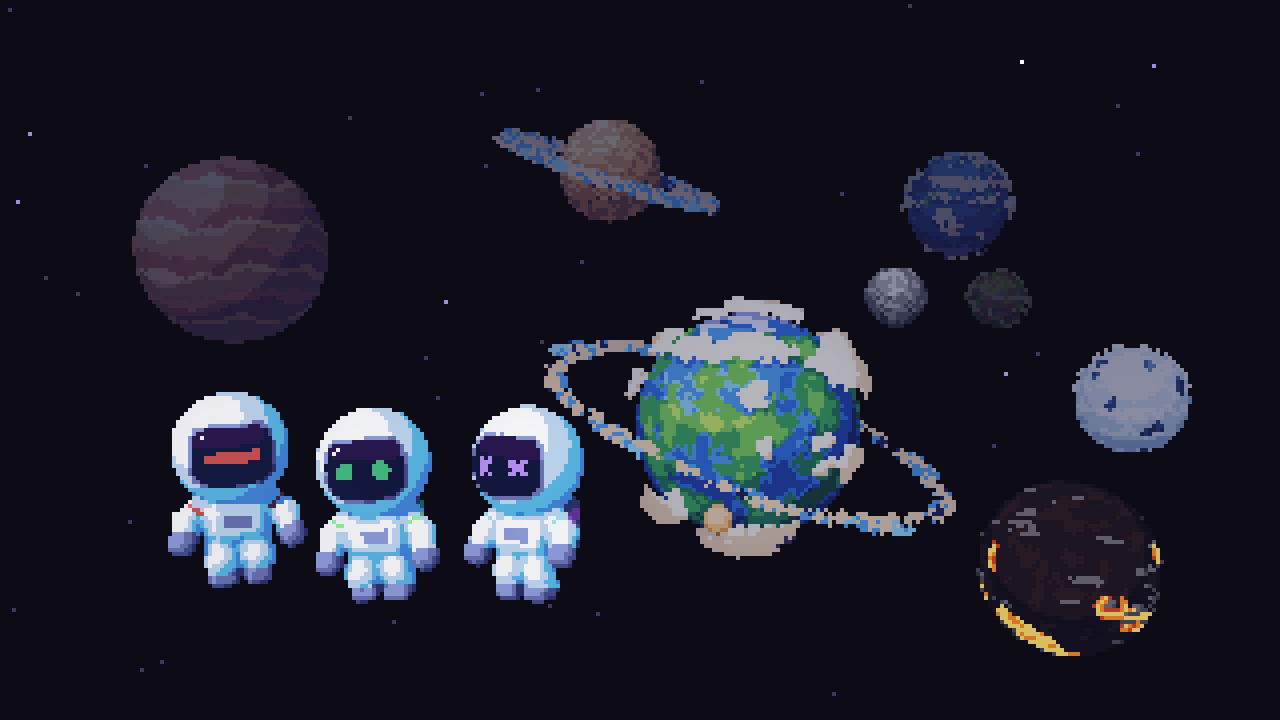
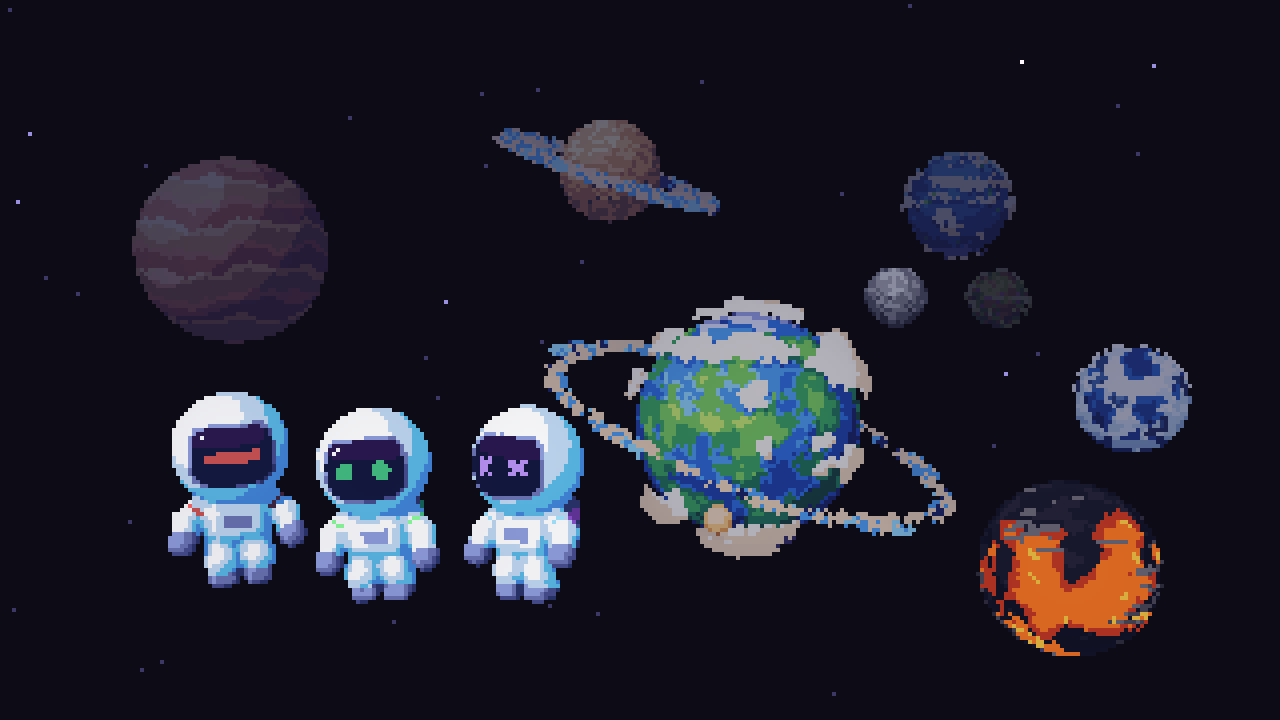
feat(mockup): open lava pools and ice water; orange lava, bluer crust
Lava worlds get large regions of pure molten lava and ice worlds get open
dark-blue water, so each planet mixes solid ground, crack networks and open
plates. Open plates are whole Voronoi cells of the crack network (shores are
the same straight, jagged edges), clustered by a low-frequency field into
lakes and seas. The open share of the sphere is a per-seed quantile (lava 30%,
ice 27%), computed on the CPU through new ports (voronoiCells, poolField) with
a GPU parity test. Cracks never run along a shore, so there are no clipped
1 px slivers.

Lava glow is more orange (#c9361a #ff761a #ffc93c): yellow only on the
hottest pool cores and down the widest fissures (47% -> 10% of glow pixels).
The crust shifts to cool blue-grey shadows. Ash rises off fissures and pool
shores; artefact glyphs stay legible on lava.

A regions debug view (viewer.set({ regions: true })) classifies ground,
crack and open pixels; the line-width probe uses it, and the test now also
guards the mix. Re-renders the variety sheet, system shot, depth GIFs,
artefacts sheet and lava-ice-before-after (e917540 top, new bottom).

Changed region(s): [[0.75, 0.7028, 0.9062, 0.9167], [0.8438, 0.4889, 0.9375, 0.6417]]

diff --git a/mockups/asset-viewer/viewer.js b/mockups/asset-viewer/viewer.js
@@ -9,7 +9,7 @@ import { LOSPEC, LOSPEC_ORDER, SPARES } from './palettes.js';
 import { mapPalette, mapColors, snapToPool } from './palette-map.js';
 import { V2_PLANET_RAMPS, RESEARCH_RAMPS, PLANET_DEPTH, ACCENTS } from './planet-ramps.js';
 import { tangentFrame } from './cloud-frame.js';
-import { voronoiEdge, crackMask } from './snoise.js';
+import { voronoiCells, poolField, crackMask } from './snoise.js';
 import { ARTEFACTS_GLSL, MAX_ART, ART_TICKS, artefactSectors, artefactCount } from './artefacts.js';
 
 THREE.ColorManagement.enabled = false; // palette hexes go to the screen untouched
@@ -329,9 +329,24 @@ const CLOUD_FRAG = /* glsl */ `
   }
 `;
 
-// Cell hash, Voronoi edge distance and the crack mask, shared by the planet shader and the CPU
-// port (snoise.js voronoiEdge / crackMask) that places lava ash on the fissures.
-const CRACKS = { lava: { freq: 3.2, cut: 0.25 }, ice: { freq: 3.8, cut: 0.32 } };
+// Cell hash, Voronoi cells, the crack mask and the pool field, shared by the planet shader and
+// the CPU port (snoise.js voronoiCells / crackMask / poolField) that sets each planet's pool cut
+// and places lava ash on the fissures and pool shores.
+// pool: which whole plates are open (lava pools, ice water). scale = the cluster field's
+// frequency in cells (lower = bigger lakes and seas); share = the open share of the whole
+// sphere, held per seed by a quantile (poolCut), like cloud cover.
+const CRACKS = { lava: { freq: 3.2, cut: 0.25, pool: { scale: 0.3, share: 0.3 } }, ice: { freq: 3.8, cut: 0.23, pool: { scale: 0.35, share: 0.27 } } };
+// The field cut that opens `share` of the sphere's area (Fibonacci samples through the CPU port).
+// off is the offset the shader passes for that biome's plates.
+function poolCut({ freq, pool }, off) {
+  const N = 3000, vals = [];
+  for (let i = 0; i < N; i++) {
+    const y = 1 - ((i + 0.5) / N) * 2, r = Math.sqrt(1 - y * y), lon = i * 2.39996;
+    const { own } = voronoiCells(Math.cos(lon) * r * freq + off.x, y * freq + off.y, Math.sin(lon) * r * freq + off.z);
+    vals.push(poolField(...own, off.x, off.y, off.z, pool.scale));
+  }
+  return vals.sort((a, b) => b - a)[Math.round(pool.share * N)];
+}
 const WORLEY_GLSL = /* glsl */ `
   vec3 hash33(vec3 p) { p = fract(p * vec3(0.1031, 0.1030, 0.0973)); p += dot(p, p.yxz + 33.33); return fract((p.xxy + p.yxx) * p.zyx); }
   // Integer cell hash (pcg3d), bit-exact on the CPU, unlike the float hash33 (whose large
@@ -346,8 +361,9 @@ const WORLEY_GLSL = /* glsl */ `
   vec3 cellHash(vec3 c) { return vec3(pcg3d(uvec3(ivec3(c) + 4096))) * (1.0 / 4294967296.0); }
   // Distance to the nearest Voronoi cell edge (the bisector plane between the nearest feature
   // and each neighbour; Quilez's two-pass method). Exact, so cracks have even width and
-  // sharp corners instead of blobs at the junctions.
-  float voronoiEdge(vec3 p) {
+  // sharp corners instead of blobs at the junctions. own = the nearest cell, across = the
+  // neighbour on the other side of that edge (integer cell coords).
+  float voronoiCells(vec3 p, out vec3 own, out vec3 across) {
     vec3 i = floor(p), f = fract(p);
     vec3 r1 = vec3(0.0), c1 = vec3(0.0);
     float d1 = 9.0;
@@ -358,17 +374,30 @@ const WORLEY_GLSL = /* glsl */ `
       if (dd < d1) { d1 = dd; r1 = r; c1 = g; }
     }
     float e = 9.0;
+    vec3 ga = c1;
     for (int z = -2; z <= 2; z++) for (int y = -2; y <= 2; y++) for (int x = -2; x <= 2; x++) {
       vec3 g = c1 + vec3(x, y, z);
       vec3 r = g + cellHash(i + g) - f;
       vec3 dr = r - r1;
-      if (dot(dr, dr) > 1e-5) e = min(e, dot(0.5 * (r1 + r), normalize(dr)));
+      if (dot(dr, dr) > 1e-5) {
+        float d = dot(0.5 * (r1 + r), normalize(dr));
+        if (d < e) { e = d; ga = g; }
+      }
     }
+    own = i + c1;
+    across = i + ga;
     return e;
   }
+  float voronoiEdge(vec3 p) { vec3 own, across; return voronoiCells(p, own, across); }
+  // Open plates (lava pools, ice water): whole Voronoi cells of the crack network where the crust
+  // or ice sheet has broken away. A low-frequency field over the cells clusters them into lakes
+  // and seas with straight, jagged shores; a per-cell jitter adds lone pools. cell = integer coords.
+  // A plate is open where poolField > the planet's cut (uPoolCut, a quantile set on the CPU).
+  float poolField(vec3 cell, vec3 off, float scale) { return snoise((cell + cellHash(cell)) * scale + off.zxy) + (cellHash(cell + 31.0).x - 0.5) * 0.5; } // at the feature point: off-lattice, so CPU and GPU never tie in snoise
   float crackMask(vec3 p, float freq, vec3 off) { return snoise(p * freq * 0.35 + off.yzx) * 0.5 + 0.5; }
   const float LAVA_CRACK_FREQ = ${CRACKS.lava.freq.toFixed(2)}, LAVA_CRACK_CUT = ${CRACKS.lava.cut.toFixed(2)};
   const float ICE_CRACK_FREQ = ${CRACKS.ice.freq.toFixed(2)}, ICE_CRACK_CUT = ${CRACKS.ice.cut.toFixed(2)};
+  const float LAVA_POOL_SCALE = ${CRACKS.lava.pool.scale.toFixed(3)}, ICE_POOL_SCALE = ${CRACKS.ice.pool.scale.toFixed(3)};
 `;
 
 // Biome surfaces (art-direction: biome = module health). All flat light bands from
@@ -388,6 +417,8 @@ const PLANET_FRAG = /* glsl */ `
   uniform mat4 modelMatrix;      // three sets these per program; the fragment stage reads them
   uniform mat4 projectionMatrix; // for the planet's screen size (cracks, artefacts)
   uniform vec2 uViewSize;        // drawing-buffer size in px
+  uniform float uPoolCut;        // open plates: poolField above this (lava pools, ice water)
+  uniform int uRegions;          // 1 = debug view: ground blue, crack red, open plates green (measurement)
   in vec3 vNormalW;
   in vec3 vLocal;
   in vec3 vPosW;
@@ -421,17 +452,17 @@ const PLANET_FRAG = /* glsl */ `
   // cracks branch and taper; below ~1 px a crack simply ends, so tips never break into dots.
   // Width is in SCREEN px (halfPx at the widest), so lines stay bold at any size; small
   // planets raise the mask cut instead, so they show fewer cracks rather than solid fissure.
-  // Returns half-width minus the pixel's distance to the edge, in px (> 0 inside), and in
-  // core how central the pixel is (0 centre .. 1 edge).
-  float crack(vec3 p, float freq, vec3 off, float cut, float halfPx, out float core) {
+  // plates() returns the px distance to the nearest cell edge, and the plates on either side of
+  // it; crackWidth() the crack's half-width there in px (0 where no crack shows). Inside a crack
+  // when dpx < w; core = dpx / w is how central the pixel is (0 centre .. 1 edge).
+  float plates(vec3 p, float freq, vec3 off, out vec3 own, out vec3 across) { return voronoiCells(p * freq + off, own, across) / (freq * gPx); }
+  float crackWidth(vec3 p, float freq, vec3 off, float cut, float halfPx) {
     float small = 1.0 - clamp((gRadiusPx - 18.0) / 50.0, 0.0, 1.0); // 1 for tiny planets, 0 from ~70 px radius
     float w = halfPx * smoothstep(cut + small * 0.35, cut + small * 0.35 + 0.25, crackMask(p, freq, off));
-    core = 1.0;
-    if (w < 0.55) return -1.0;
-    float dpx = voronoiEdge(p * freq + off) / (freq * gPx); // px to the cell edge
-    core = dpx / w;
-    return w - dpx;
+    return w < 0.55 ? 0.0 : w; // below ~1 px a crack ends
   }
+  // Region of the last surface() sample, for the regions debug view: 0 ground, 1 crack, 2 open (pool / water).
+  int gRegion = 0;
 
   // Craters: sparse cells get a dark floor and a bright rim.
   vec3 craters(vec3 p, vec3 c, int b, float scale, float density) {
@@ -447,6 +478,7 @@ const PLANET_FRAG = /* glsl */ `
   // The surface colour is a function so artefacts can resample it (cell centres, moshed terrain, flipped bands).
   vec3 surface(vec3 p, int b) {
     vec3 c;
+    gRegion = 0;
     if (uBiome == 0 || uBiome == 1 || uBiome == 7) {
       // lush / ocean / toxic: sea + land
       float h = fbm(p * 1.6 + uSeedOff) + (fbm(p * 4.1 + uSeedOff.zxy) - 0.5) * 0.22;
@@ -464,8 +496,18 @@ const PLANET_FRAG = /* glsl */ `
       float h = fbm(p * 2.3 + uSeedOff);
       float strata = sin((p.y * 5.0 + h * 2.4) * 3.14159);
       c = uA[min(b + 1 + (strata > 0.55 ? 1 : 0), 4)];
-      float core;
-      if (crack(p, ICE_CRACK_FREQ, uSeedOff.yzx, ICE_CRACK_CUT, 1.2, core) > 0.0) c = core < 0.5 ? uB[max(b - 1, 0)] : uB[min(b, 4)];
+      vec3 own, across;
+      float dpx = plates(p, ICE_CRACK_FREQ, uSeedOff.yzx, own, across);
+      if (poolField(own, uSeedOff.yzx, ICE_POOL_SCALE) > uPoolCut) {
+        // open dark-blue water between the sheets, with a paler submerged-ice fringe at the shore
+        gRegion = 2;
+        bool shore = poolField(across, uSeedOff.yzx, ICE_POOL_SCALE) <= uPoolCut && dpx < 1.5;
+        c = shore ? uC[min(b, 2)] : uC[max(min(b, 2) - 1, 0)]; // two dark steps; the lit fringe one up
+      } else {
+        float w = crackWidth(p, ICE_CRACK_FREQ, uSeedOff.yzx, ICE_CRACK_CUT, 1.2);
+        // no crack along a shore: the water's fringe marks that edge (a clipped half-crack is a 1 px sliver)
+        if (dpx < w && poolField(across, uSeedOff.yzx, ICE_POOL_SCALE) <= uPoolCut) { gRegion = 1; c = dpx < w * 0.5 ? uB[max(b - 1, 0)] : uB[min(b, 4)]; }
+      }
     } else if (uBiome == 3 || uBiome == 6) {
       // desert dunes / barren moon, both cratered
       float h = fbm(p * 2.0 + uSeedOff);
@@ -475,12 +517,24 @@ const PLANET_FRAG = /* glsl */ `
       c = craters(p, c, b, 2.4, uBiome == 6 ? 0.55 : 0.3);
       c = craters(p, c, b, 5.2, uBiome == 6 ? 0.45 : 0.2);
     } else if (uBiome == 4) {
-      // lava: dark crust, emissive fissures
+      // lava: dark crust, open molten pools and emissive fissures
       float h = fbm(p * 2.4 + uSeedOff);
       c = uA[min(b, 2) + (h > 0.58 ? 1 : 0)]; // crust stays in the darkest steps
-      // emissive jagged fissures: bright core, darker glowing edges
-      float core;
-      if (crack(p, LAVA_CRACK_FREQ, uSeedOff, LAVA_CRACK_CUT, 1.5, core) > 0.0) c = core < 0.4 ? uG[2] : core < 0.75 ? uG[1] : uG[0];
+      vec3 own, across;
+      float dpx = plates(p, LAVA_CRACK_FREQ, uSeedOff, own, across);
+      if (poolField(own, uSeedOff, LAVA_POOL_SCALE) > uPoolCut) {
+        // open molten pool where the crust broke away: orange, a cooler rim at the shore, and
+        // yellow only on the hottest cores, away from the shore
+        gRegion = 2;
+        bool shore = poolField(across, uSeedOff, LAVA_POOL_SCALE) <= uPoolCut;
+        c = shore && dpx < 1.5 ? uG[0] : uG[1];
+        if ((!shore || dpx > 4.0) && snoise(p * 3.5 + uSeedOff.yzx) > 0.6) c = uG[2];
+      } else {
+        // emissive jagged fissures: orange, darker glowing edges, yellow only down the core of the widest
+        float w = crackWidth(p, LAVA_CRACK_FREQ, uSeedOff, LAVA_CRACK_CUT, 1.5);
+        // no crack along a shore: the pool's rim marks that edge (a clipped half-crack is a 1 px sliver)
+        if (dpx < w && poolField(across, uSeedOff, LAVA_POOL_SCALE) <= uPoolCut) { gRegion = 1; c = dpx < w * 0.25 && w > 1.4 ? uG[2] : dpx < w * 0.7 ? uG[1] : uG[0]; }
+      }
     } else {
       // gas giant: turbulent alternating bands and a storm
       float t = fbm(p * vec3(1.4, 0.45, 1.4) + uSeedOff);
@@ -500,6 +554,7 @@ const PLANET_FRAG = /* glsl */ `
     setScreenScale(p);
     int b = band(normalize(vNormalW));
     gl_FragColor = vec4(artefacts(p, b, surface(p, b)), 1.0);
+    if (uRegions == 1) { gl_FragColor = vec4(gRegion == 1 ? 1.0 : 0.0, gRegion == 2 ? 1.0 : 0.0, gRegion == 0 ? 1.0 : 0.0, 1.0); return; } // debug: ground / crack / open
     bool glow = uBiome == 4 && (gl_FragColor.rgb == uG[0] || gl_FragColor.rgb == uG[1] || gl_FragColor.rgb == uG[2]);
     gl_FragColor.rgb = depthFade(gl_FragColor.rgb, vPosW, glow ? 0.5 : 1.0); // emissive glow fades at half strength
   }
@@ -664,7 +719,7 @@ function setDepthLevel(obj, level) {
 export const BIOMES = {
   lush: { id: 0, label: 'lush', ramps: ['ocean', 'land', 'cap', 'glow'], sea: [0.47, 0.55], weather: 'cloud', haze: null },
   ocean: { id: 1, label: 'ocean', ramps: ['water', 'land', 'cap', 'glow'], sea: [0.7, 0.73], weather: 'thin', haze: 'haze.ocean' },
-  ice: { id: 2, label: 'ice', ramps: ['ice', 'crevasse', 'cap', 'glow'], weather: null, haze: 'haze.ice' },
+  ice: { id: 2, label: 'ice', ramps: ['ice', 'crevasse', 'water', 'glow'], weather: null, haze: 'haze.ice' },
   desert: { id: 3, label: 'desert', ramps: ['sand', 'rock', 'cap', 'glow'], weather: null, haze: null },
   lava: { id: 4, label: 'lava', ramps: ['crust', 'crust', 'ash', 'glow'], weather: 'ash', haze: null },
   gas: { id: 5, label: 'gas giant (extra)', ramps: ['gasA', 'gasB', 'cap', 'glow'], weather: null, haze: null, extra: true },
@@ -748,7 +803,7 @@ function makePlanet() {
   group.userData.depthFamily = 'planet'; // fades through the planet set, not the crew's
   const surfaceMat = paletteMaterial(PLANET_FRAG, {}, {
     uBiome: { value: 0 }, uA: ramp5(), uB: ramp5(), uC: ramp5(), uG: { value: [0, 1, 2].map(() => new THREE.Color()) },
-    uSeedOff: { value: new THREE.Vector3() }, uSea: { value: 0.5 },
+    uSeedOff: { value: new THREE.Vector3() }, uSea: { value: 0.5 }, uPoolCut: { value: 9 }, uRegions: { value: 0 },
     uBands: { value: new THREE.Vector3(0.2, 0.58, 0.86) }, // lit directional terminator, crescent bands
     // artefacts (artefacts.js): off while uArtN = 0
     uArtN: { value: 0 }, uArtTick: { value: 0 }, uArtTeal: { value: 0 }, uArtTealC: { value: new THREE.Color(ACCENTS.reveal[3]) }, // [OIII] teal, garnish only
@@ -837,6 +892,8 @@ function makePlanet() {
     surfaceMat.uniforms.uSeedOff.value.set(rnd() * 50, rnd() * 50, rnd() * 50);
     const [s0, s1] = biome.sea ?? [0.5, 0.5];
     surfaceMat.uniforms.uSea.value = s0 + rnd() * (s1 - s0);
+    const so = surfaceMat.uniforms.uSeedOff.value;
+    surfaceMat.uniforms.uPoolCut.value = biomeKey === 'lava' ? poolCut(CRACKS.lava, so) : biomeKey === 'ice' ? poolCut(CRACKS.ice, new THREE.Vector3(so.y, so.z, so.x)) : 9;
     const [a, b, c, g] = biome.ramps;
     surfaceMat.userData.ramps = { uA: a, uB: b, uC: c, uG: g };
     haze.visible = !!biome.haze;
@@ -894,16 +951,19 @@ function makePlanet() {
       // Raw weather density per site, then a threshold at the (1 - share) quantile.
       let raw;
       if (weather.fissure) {
-        // the surface shader's fissures (PLANET_FRAG lava branch: crackMask + voronoiEdge), plus a
-        // patch field so only some fissures smoke. Sites off the visible cracks never qualify.
+        // the surface shader's fissures and pool shores (PLANET_FRAG lava branch: voronoiCells,
+        // crackMask, poolField), plus a patch field so only some of them smoke. Sites off the
+        // visible fissures and shores (solid crust, the open middle of a lake) never qualify.
         const o = surfaceMat.uniforms.uSeedOff.value;
-        const { freq, cut } = CRACKS.lava;
+        const { freq, cut, pool } = CRACKS.lava;
+        const openCut = surfaceMat.uniforms.uPoolCut.value;
         const patch = makeFbm3(seed * 23 + 3);
         raw = dirs.map((d) => {
-          const m = THREE.MathUtils.smoothstep(crackMask(d.x, d.y, d.z, freq, o.x, o.y, o.z), cut, cut + 0.25);
-          if (m < 0.4) return -1; // the shader draws no crack here
-          const edge = voronoiEdge(d.x * freq + o.x, d.y * freq + o.y, d.z * freq + o.z) / freq; // sphere units to the crack
-          return 1 - edge * 8 + (patch(d.x * 1.6, d.y * 1.6, d.z * 1.6) - 0.5) * 0.25;
+          const { edge, own, across } = voronoiCells(d.x * freq + o.x, d.y * freq + o.y, d.z * freq + o.z);
+          const open = [own, across].filter((c) => poolField(...c, o.x, o.y, o.z, pool.scale) > openCut).length;
+          if (open === 2) return -1; // inside a lake: no edge shows here
+          if (open === 0 && THREE.MathUtils.smoothstep(crackMask(d.x, d.y, d.z, freq, o.x, o.y, o.z), cut, cut + 0.25) < 0.4) return -1; // the shader draws no crack here
+          return 1 - (edge / freq) * 8 + (patch(d.x * 1.6, d.y * 1.6, d.z * 1.6) - 0.5) * 0.25; // edge / freq: sphere units to the fissure or shore
         });
       } else {
         const massField = makeFbm3(seed * 31 + 5);
@@ -1043,7 +1103,8 @@ function makePlanet() {
   }
   // artefacts: 0 = off, 1..5 = that many sectors, 'auto' = by planet size (artefactCount).
   let artefactsOpt = 0;
-  function setExtras({ moons = false, halo: showHalo = false, artefacts = 0, teal = false, cloudShadow = true } = {}) {
+  function setExtras({ moons = false, halo: showHalo = false, artefacts = 0, teal = false, cloudShadow = true, regions = false } = {}) {
+    surfaceMat.uniforms.uRegions.value = regions ? 1 : 0;
     for (const m of MOONS) m.mesh.visible = moons;
     shadowMat.visible = cloudShadow;
     halo.visible = showHalo;
@@ -1436,6 +1497,7 @@ const state = {
   depthBands: '3-band', // DEPTH_BANDS (per-pixel modes)
   artefacts: false, artAuto: true, artCount: 3, artTeal: false, // planet artefacts (artefacts.js); artAuto: sector count by planet size
   cover: null, // cloud-cover override (0..1) for the hero planets; null = the biome's WEATHER cover
+  regions: false, // debug (measurement only): planet surfaces as ground / crack / open-plate colours
 };
 
 // Keep the orbit camera out of the cloud layer in planet views (clouds reach ~1.1 R).
@@ -1469,7 +1531,7 @@ function applyState() {
   LOOP.period = Math.max(1, state.period);
   LOOP.surfaceTurns = Math.max(1, Math.round(state.surfaceTurns));
   LOOP.cloudTurns = Math.max(0, Math.round(state.cloudTurns));
-  const art = { artefacts: !state.artefacts ? 0 : state.artAuto ? 'auto' : state.artCount, teal: state.artTeal, cloudShadow: state.cloudShadow };
+  const art = { artefacts: !state.artefacts ? 0 : state.artAuto ? 'auto' : state.artCount, teal: state.artTeal, cloudShadow: state.cloudShadow, regions: state.regions };
   document.getElementById('art-auto').checked = state.artAuto;
   planets.forEach((p, i) => p.setExtras({ moons: i === 0 && state.moons, halo: state.halo, ...art }));
   SYSTEM.forEach((p, i) => p.setExtras({ moons: i === 0 && state.moons, halo: state.halo, ...art }));

diff --git a/mockups/asset-viewer/snoise.js b/mockups/asset-viewer/snoise.js
@@ -60,8 +60,9 @@ function pcg3d(x, y, z) {
 const INV32 = f(1 / 4294967296);
 export const cellHash = (x, y, z) => pcg3d(x + 4096, y + 4096, z + 4096).map((v) => f(f(v) * INV32));
 
-/** Distance to the nearest Voronoi cell edge (the shader's voronoiEdge, two-pass). */
-export function voronoiEdge(px, py, pz) {
+/** The shader's voronoiCells: distance to the nearest Voronoi cell edge (two-pass), the nearest
+ *  cell (own) and the neighbour across that edge (across), as integer cell coords. */
+export function voronoiCells(px, py, pz) {
   const ix = Math.floor(px), iy = Math.floor(py), iz = Math.floor(pz);
   const fx = px - ix, fy = py - iy, fz = pz - iz;
   let d1 = 9, r1 = [0, 0, 0], c1 = [0, 0, 0];
@@ -71,15 +72,28 @@ export function voronoiEdge(px, py, pz) {
     const dd = r[0] * r[0] + r[1] * r[1] + r[2] * r[2];
     if (dd < d1) { d1 = dd; r1 = r; c1 = [x, y, z]; }
   }
-  let e = 9;
+  let e = 9, ga = c1;
   for (let z = -2; z <= 2; z++) for (let y = -2; y <= 2; y++) for (let x = -2; x <= 2; x++) {
     const g = [c1[0] + x, c1[1] + y, c1[2] + z];
     const h = cellHash(ix + g[0], iy + g[1], iz + g[2]);
     const dr = [g[0] + h[0] - fx - r1[0], g[1] + h[1] - fy - r1[1], g[2] + h[2] - fz - r1[2]];
     const len = Math.hypot(...dr);
-    if (len * len > 1e-5) e = Math.min(e, ((r1[0] + dr[0] / 2) * dr[0] + (r1[1] + dr[1] / 2) * dr[1] + (r1[2] + dr[2] / 2) * dr[2]) / len);
+    if (len * len > 1e-5) {
+      const d = ((r1[0] + dr[0] / 2) * dr[0] + (r1[1] + dr[1] / 2) * dr[1] + (r1[2] + dr[2] / 2) * dr[2]) / len;
+      if (d < e) { e = d; ga = g; }
+    }
   }
-  return e;
+  return { edge: e, own: [ix + c1[0], iy + c1[1], iz + c1[2]], across: [ix + ga[0], iy + ga[1], iz + ga[2]] };
+}
+
+/** Distance to the nearest Voronoi cell edge (the shader's voronoiEdge). */
+export const voronoiEdge = (px, py, pz) => voronoiCells(px, py, pz).edge;
+
+/** The shader's poolField: a plate (integer cell coords) is open (lava pool, ice water) when this
+ *  exceeds the planet's pool cut. (ox, oy, oz) is the offset the shader passes as `off`. */
+export function poolField(cx, cy, cz, ox, oy, oz, scale) {
+  const h = cellHash(cx, cy, cz); // the cell's feature point
+  return snoise(f(cx + h[0]) * scale + oz, f(cy + h[1]) * scale + ox, f(cz + h[2]) * scale + oy) + (cellHash(cx + 31, cy + 31, cz + 31)[0] - 0.5) * 0.5;
 }
 
 /** The shader's crackMask: which crack edges show, and how wide (0..1). */

diff --git a/mockups/asset-viewer/planet-ramps.js b/mockups/asset-viewer/planet-ramps.js
@@ -112,8 +112,8 @@ export const V2_PLANET_RAMPS = {
   crevasse: ['#16234e', '#24407e', '#3a64b0', '#6a96d6'],
   sand: ['#6a3a1e', '#a8602c', '#d8944a', '#f0c27a', '#fff0b8'],
   rock: ['#2e1c14', '#4e3020', '#7a4c30', '#a4744c'],
-  crust: ['#0e0809', '#0e0809', '#1c0f0d', '#2e1712', '#432118'], // truly near-black
-  glow: ['#d63c1a', '#ff8a1e', '#ffe066'],
+  crust: ['#0b0a10', '#0b0a10', '#17151d', '#262129', '#382c30'], // truly near-black; cool blue-grey shadows, a touch warm in full light
+  glow: ['#c9361a', '#ff761a', '#ffc93c'], // cooler rim, orange body, yellow only on the hottest cores
   ash: ['#1a1719', '#332e30', '#565052', '#827b7c'],
   gasA: ['#5a2e1c', '#9c5a30', '#d89a5a', '#f2cc94', '#fff0d0'],
   gasB: ['#481a18', '#883422', '#c25e38', '#e69068', '#ffc6a0'],

diff --git a/mockups/asset-viewer/README.md b/mockups/asset-viewer/README.md
@@ -12,7 +12,7 @@ npm run dev      # http://127.0.0.1:5180/  (loopback only; PORT=... to change)
 npm run shots    # re-capture screenshots/ in headless Chromium (no server, no network)
 npm run palettes # 25 Lospec-palette renders + labelled contact sheet in screenshots/palettes/
 npm run planets  # variety sheet, system shot, hero-loop.gif, artefacts-loop.gif, cloud-drift-24s/36s.gif, colour counts + loop-seam tests
-npm test         # cloud regression tests: puff handedness (det > 0), hollow-ring renders (32 framings + 12 hero-loop frames; LOOP_FRAMES=48 for all), shading direction (follows the mass dome), CPU/GPU simplex parity; artefacts: off = pixel-identical, on = visible, deterministic, loop-locked; cloud shadow: no phantoms, drifts with the clouds; depth: object mode unchanged, pixel-stepped splits a straddling planet; lava/ice line width ≥ 2 px
+npm test         # cloud regression tests: puff handedness (det > 0), hollow-ring renders (32 framings + 12 hero-loop frames; LOOP_FRAMES=48 for all), shading direction (follows the mass dome), CPU/GPU simplex, Voronoi-cell and pool-field parity; artefacts: off = pixel-identical, on = visible, deterministic, loop-locked; cloud shadow: no phantoms, drifts with the clouds; depth: object mode unchanged, pixel-stepped splits a straddling planet; lava/ice line width ≥ 2 px and a ground / crack / open mix
 ```
 
 `node shots.mjs depth-scene crew-closeup` captures just the named shots.
@@ -83,7 +83,7 @@ v2 is the current palette. v1 (the batch 1 pastels) stays selectable from the `p
 - **Everything else is v2:** space `#0d0b16`, stars, depth tints, and the planets, clouds, caps and haze (`V2_PLANET_RAMPS` in `planet-ramps.js`: the v2 lush ramps plus naturalistic biome ramps in the same spirit).
 - **Clouds:** keep the v2 tones, with the purple mid-shadow swapped for v2's warm cream `#f2d8b8`.
 - **Ring:** no pink, violet or yellow. It's built only from v2 planet-family colours: ocean darkest `#141d5c` (debris in the planet's shadow), cloud cream `#f2d8b8` (most debris), ocean step `#4ea3f7` and pale ocean `#94dcff`.
-- **Lava:** the crust is truly near-black.
+- **Lava:** the crust is truly near-black, with cool blue-grey shadows (`#0b0a10` `#17151d` `#262129`, warming to `#382c30` in full light). The glow is orange with yellow only as an accent: rim `#c9361a`, body `#ff761a`, hottest cores `#ffc93c` (was `#d63c1a` `#ff8a1e` `#ffe066`).
 - **Toxic:** ochre sludge seas, acid-lime growth and purple fungus, so it can't be read as lush.
 
 `final-blk` keeps the revision 5 mix for comparison: BLK 36 crew, banded BLK 36 space, and the research ×2 13-colour shared planet set with its own planet depth family (`RESEARCH_RAMPS` and `PLANET_DEPTH`; the OKLCH/source table is in `planet-ramps.js`).
@@ -115,17 +115,19 @@ Each biome is a branch of one planet shader. Its ramps are re-keyed per biome (`
 |---|---|---|---|
 | lush | healthy, tested, active | sea + land + polar caps | cloud masses and streaks |
 | ocean | stable, rarely touched | blue "water" ramp, sea level ~0.7, so only a few islands | thin, small clouds + lit-limb haze |
-| ice | stable, rarely touched | white strata with jagged, crystalline blue crevasses (deeper blue at the core) | pale haze |
+| ice | stable, rarely touched | white strata broken into sheets by jagged, crystalline blue crevasses (deeper blue at the core), with open dark-blue water (v2 `water` ramp) in leads and polynyas between them, fringed one step paler at the shore | pale haze |
 | desert | stale, low coverage | wind-dune bands and sparse Worley craters (dark floor, bright rim) | none (no clouds) |
-| lava | churn / bugfix hotspot | dark crust from the palette's darkest ~45%; jagged emissive fissures (bright core, darker glowing edges) that ignore lighting | ash/smoke puffs |
+| lava | churn / bugfix hotspot | dark, slightly blue crust from the palette's darkest ~45%, broken by open molten pools, lakes and seas (orange, a cooler rim at the shore, yellow only on the hottest cores) and jagged emissive fissures (orange, darker glowing edges, yellow only down the widest cores); all glow ignores lighting | ash/smoke puffs |
 | ringed | shared lib, many dependents | any base + a wide two-lane ring | the ring |
 | gas giant *(extra)* | very large modules | turbulent alternating bands + a storm | — |
 | barren moon *(extra)* | tiny / dead modules | grey, densely cratered | — |
 | toxic *(extra)* | overgrown / risky | dark sludge sea with glowing veins, acid-lime land, fungal blooms | spore puffs + lime haze |
 
-The haze is a 1.06× shell drawn only as a thin crescent on the lit limb, so it reads as atmosphere rather than an outline. Ash and spore puffs reuse the cloud system with their own ramp, cover and lift. Lava ash reads the surface shader's own fissure field on the CPU (`snoise.js`: ports of the GLSL simplex noise, the integer cell hash and the Voronoi edge distance; `npm test` checks them against the GPU), so smoke only rises from the glowing fissures of a few active regions, as short, flat plumes trailing east.
+The haze is a 1.06× shell drawn only as a thin crescent on the lit limb, so it reads as atmosphere rather than an outline. Ash and spore puffs reuse the cloud system with their own ramp, cover and lift. Lava ash reads the surface shader's own fissure and pool fields on the CPU (`snoise.js`: ports of the GLSL simplex noise, the integer cell hash, the Voronoi cells and the pool field; `npm test` checks them against the GPU), so smoke only rises from the glowing fissures and pool shores of a few active regions, as short, flat plumes trailing east.
 
-**Fissures and crevasses** (`crack()` in the planet shader, `CRACKS` for frequency and mask cut): Voronoi cell edges, i.e. straight segments that meet at pointed junctions, using the exact distance to the cell edge. A low-frequency mask picks which edges show and how wide, so cracks branch and taper to ~1 px tips, then stop rather than breaking into dots. Width is in **screen pixels** (lava up to ~3 px, ice ~2.4 px), worked out from the fragment's screen derivatives, so lines stay bold at any size; small planets raise the mask cut, so they show fewer cracks rather than solid fissure. Median line width at 180p (`node debug/measure-line-width.mjs`, guarded by `npm test`) went from 1 px (16–27% isolated pixels on lava, 50–62% on ice) to 4–5 px on lava and 3–4 px on ice, with ≤ 1.5% isolated pixels.
+**Fissures and crevasses** (`plates()` and `crackWidth()` in the planet shader, `CRACKS` for frequency and mask cut): Voronoi cell edges, i.e. straight segments that meet at pointed junctions, using the exact distance to the cell edge. A low-frequency mask picks which edges show and how wide, so cracks branch and taper to ~1 px tips, then stop rather than breaking into dots. Width is in **screen pixels** (lava up to ~3 px, ice ~2.4 px), worked out from the fragment's screen derivatives, so lines stay bold at any size; small planets raise the mask cut, so they show fewer cracks rather than solid fissure. Median line width at 180p (`node debug/measure-line-width.mjs`, guarded by `npm test`) went from 1 px (16–27% isolated pixels on lava, 50–62% on ice) to 4–5 px on lava and 3–4 px on ice, with ≤ 1.5% isolated pixels.
+
+**Lava pools and ice water** (`poolField()` in the planet shader, `CRACKS.*.pool`): whole Voronoi plates of the crack network are open, where the crust or the ice sheet has broken away, so shores are the same straight, jagged edges as the cracks. A low-frequency field over the plates (`scale`, in cells) clusters them into lakes and seas, and a per-plate jitter adds lone pools. The open share of the whole sphere is a **quantile** per seed (`share`: lava 30%, ice 27%; `poolCut()` samples the CPU port), like cloud cover. A crack never runs along a shore (the shore band marks that edge instead), so there are no clipped 1 px slivers. `node debug/measure-line-width.mjs` classifies pixels with the shader's regions debug view (`viewer.set({ regions: true })`: ground blue, crack red, open green); `npm test` also guards the mix (ground ≥ 40%, cracks ≥ 3%, open 10–55%). Averaged over a turn (6 phases) at S/M/L, ground / cracks / open are 58 / 9–12 / 30–33% on lava and 56–63 / 11–16 / 26–27% on ice; a single face ranges from 14% to 51% open.
 
 ### Measured cloud cover
 
@@ -193,7 +195,7 @@ Every tile is the same shot: the `depth` view (crew in front, hero planet, then 
 | `screenshots/faces-sheet.png` | All 10 V2 eye designs on the same head close-up |
 | `screenshots/astronaut-before-after.png` | Crew before (rev 2: ASCII faces, longer limbs) vs after (V2 eyes, chibi), made once with ffmpeg |
 | `screenshots/depth-scene.png` | Planet and astronaut copies at all four depth steps, fade on |
-| `screenshots/lava-ice-before-after.png` | Lava and ice at S/M/L (variety-sheet tiles): thin ridged lines before (top) vs jagged screen-width cracks after (bottom) |
+| `screenshots/lava-ice-before-after.png` | Lava and ice at S/M/L (variety-sheet tiles): e917540 cracks only (top) vs open lava pools and ice water, orange lava and bluer crust (bottom) |
 | `screenshots/depth-mode-compare.png` | Depth scene and a planet straddling the 12-unit threshold, `object` vs `pixel-stepped` |
 | `screenshots/depth-scene-off.png` | Same scene, fade off, for comparison |
 | `screenshots/pixel-120.png` | Chunkier pixels: 213×120 ×6 |
